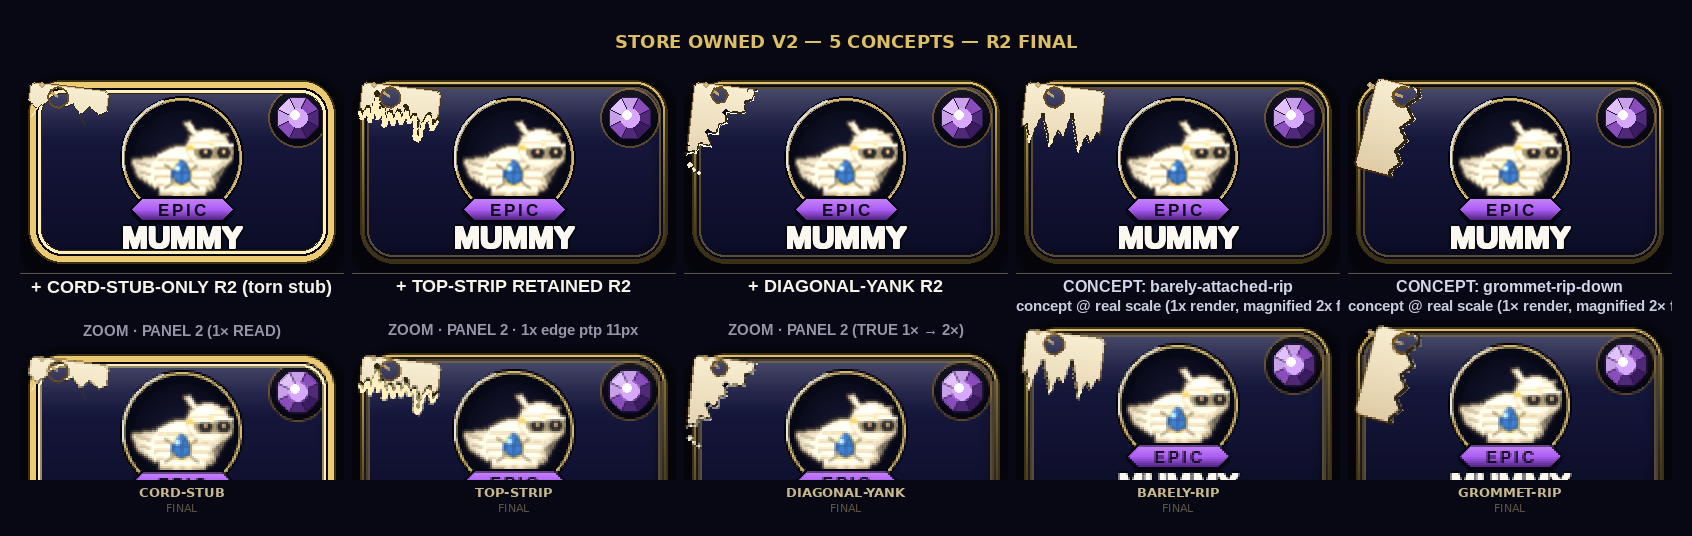
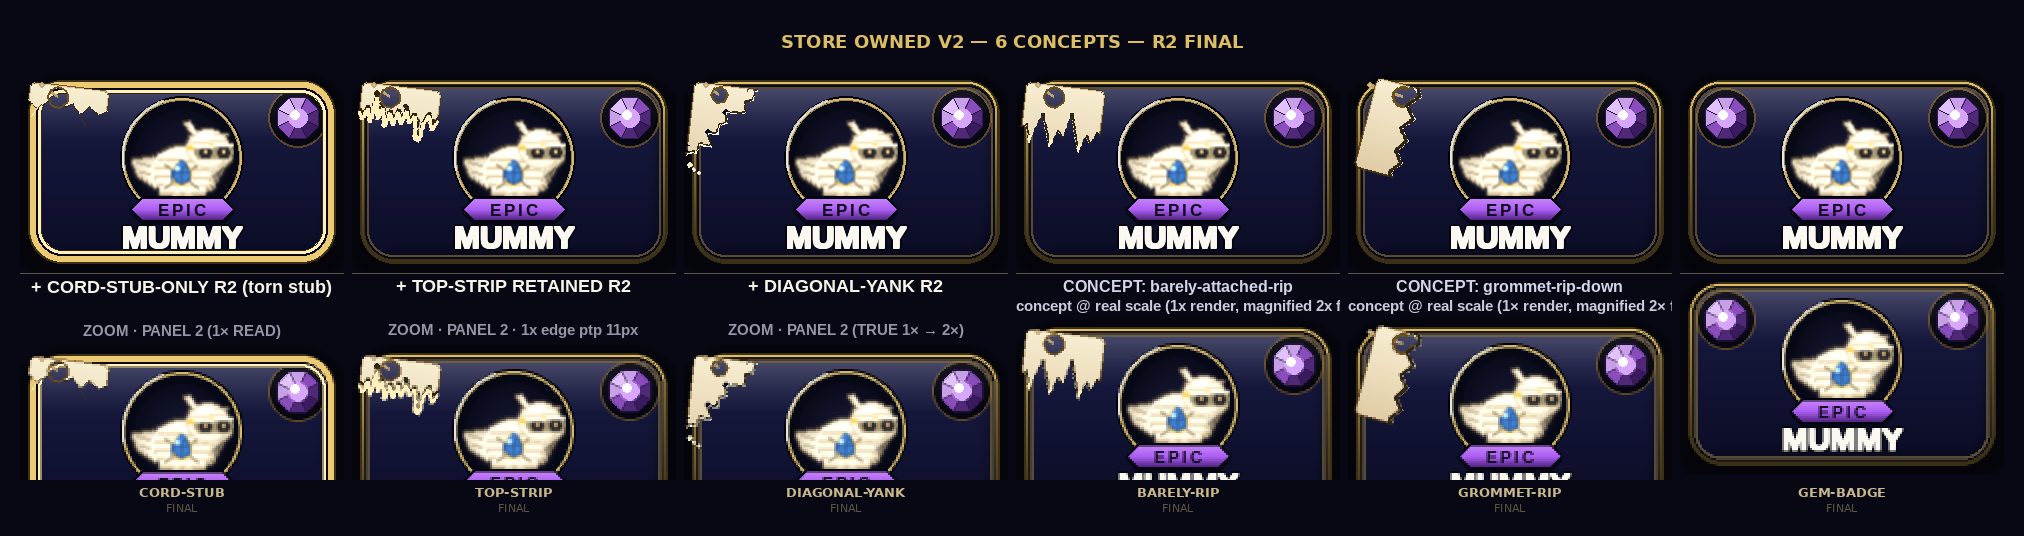
Add store_owned_v2 top-left-gem concept + update showcase to 6 panels

diff --git a/tools/_store_owned_v2_top_left_gem_r2.py b/tools/_store_owned_v2_top_left_gem_r2.py
@@ -1,0 +1,97 @@
+#!/usr/bin/env python3
+"""store_owned_v2 — top-left-gem concept.
+Owned state: no hang-tag; instead a second facet-gem badge appears at the
+top-LEFT corner, mirroring the top-right rarity crest gem.
+Two gems = owned. One gem = unowned/equipped-only.
+"""
+import os, sys
+os.environ.setdefault("SDL_VIDEODRIVER", "dummy")
+os.environ.setdefault("SDL_AUDIODRIVER", "dummy")
+sys.path.insert(0, os.path.join(os.path.dirname(__file__), ".."))
+import pygame; pygame.init()
+pygame.display.set_mode((1, 1), pygame.NOFRAME)
+
+import game.store_cards as sc
+import game.store_data as sd
+from game import store_catalog
+
+sd.load()
+SID = "skin_mummy"
+
+CW, CH = sc.CARD_W * sc.SS, sc.CARD_H * sc.SS   # 324 × 200
+CARD_RECT = pygame.Rect(sc.m(sc._INSET), sc.m(sc._INSET),
+                        CW - 2 * sc.m(sc._INSET), CH - 2 * sc.m(sc._INSET))
+
+BG    = (8, 8, 20)
+xs    = [20, 360, 700]
+PY    = 102
+SHEET_W = xs[-1] + CW + 20
+SHEET_H = PY + CH + 8 + CH + 36    # panel + gap + zoom strip + label row
+
+sheet = pygame.Surface((SHEET_W, SHEET_H))
+sheet.fill(BG)
+
+
+def make_card(equipped, owned):
+    s = pygame.Surface((CW, CH), pygame.SRCALPHA)
+    sc.draw_card(s, SID, CARD_RECT, equipped, False, owned=owned)
+    return s
+
+
+# ── Panel 0: UNOWNED (price tag) ─────────────────────────────────────────────
+p0 = make_card(False, False)
+sheet.blit(p0, (xs[0], PY))
+
+# ── Panel 1: EQUIPPED BASE (regalia frame + check tag) ───────────────────────
+p1 = make_card(True, False)
+sheet.blit(p1, (xs[1], PY))
+
+# ── Panel 2: CONCEPT — top-left gem (no hang-tag) ────────────────────────────
+p2 = pygame.Surface((CW, CH), pygame.SRCALPHA)
+
+# Draw full card body but suppress the state_chip so no hang-tag is drawn
+_orig_chip = sc.state_chip
+sc.state_chip = lambda *a, **kw: None
+sc.draw_card(p2, SID, CARD_RECT, False, False, owned=False)
+sc.state_chip = _orig_chip
+
+# Mirror the top-right gem to the top-left corner (identical call, mirrored cx)
+pal = sc.RARITY[store_catalog.rarity(SID)]
+gem_cx_right = CARD_RECT.right  - sc.m(19)
+gem_cx_left  = CARD_RECT.x      + sc.m(19)
+gem_cy       = CARD_RECT.y      + sc.m(19)
+gem_r        = sc.m(sc.GEM_R + 3)
+sc.facet_gem(p2, gem_cx_left, gem_cy, gem_r, pal["gem"], pal["deep"])
+
+sheet.blit(p2, (xs[2], PY))
+
+# ── Zoom strip: true 1× read scaled 2× ───────────────────────────────────────
+zoom = pygame.transform.scale2x(
+    pygame.transform.smoothscale(p2, (sc.CARD_W, sc.CARD_H)))
+sheet.blit(zoom, (xs[2], PY + CH + 8))
+
+# ── Save ──────────────────────────────────────────────────────────────────────
+out_dir = "docs/store_owned_v2/top_left_gem"
+os.makedirs(out_dir, exist_ok=True)
+out = os.path.join(out_dir, "round_2.png")
+pygame.image.save(sheet, out)
+print(f"saved {out} ({SHEET_W}x{SHEET_H})")
+
+# ── 1× legibility check ───────────────────────────────────────────────────────
+from PIL import Image
+im = Image.open(out).convert("RGB")
+# Sample the top-left gem area on the zoom strip (xs[2], PY+CH+8 is zoom origin)
+zx, zy = xs[2], PY + CH + 8
+# The gem at top-left in the zoom strip (scale2x of 162×100 → 324×200)
+# gem_cx_left at SS=2 → 1× coord = gem_cx_left//2; then ×2 in zoom = gem_cx_left
+# Gem center in zoom coords:
+zoom_gem_cx = zx + gem_cx_left         # already device px, scale2x ×2 = same
+zoom_gem_cy = zy + gem_cy
+# Zoom is smoothscale(SS→1x) → scale2x, so zoom pixel = p2 pixel at half res then ×2
+# Simpler: sample at device coords on p2 region (xs[2], PY)
+p2_gem_px = im.getpixel((xs[2] + gem_cx_left, PY + gem_cy))
+p2_right_px = im.getpixel((xs[2] + gem_cx_right, PY + gem_cy))
+print(f"top-left gem pixel  @({gem_cx_left},{gem_cy}): {p2_gem_px}")
+print(f"top-right gem pixel @({gem_cx_right},{gem_cy}): {p2_right_px}")
+bg_px = im.getpixel((xs[2] + 5, PY + 5))
+print(f"card body corner pixel: {bg_px}  (should be indigo/dark, not BG)")

diff --git a/tools/_store_owned_v2_showcase.py b/tools/_store_owned_v2_showcase.py
@@ -1,5 +1,5 @@
 #!/usr/bin/env python3
-"""store_owned_v2 showcase — 5 R2 concept panels + zoom strips"""
+"""store_owned_v2 showcase — 6 R2 concept panels + zoom strips"""
 from PIL import Image, ImageDraw, ImageFont
 import os
 
@@ -9,6 +9,7 @@ CONCEPTS = [
     ("diagonal_yank",       "DIAGONAL-YANK", 315),
     ("barely_attached_rip", "BARELY-RIP",    309),
     ("grommet_rip_down",    "GROMMET-RIP",   309),
+    ("top_left_gem",        "GEM-BADGE",     316),
 ]
 
 BASE = "docs/store_owned_v2"
@@ -41,7 +42,7 @@ DIM    = (90, 85, 70)
 
 draw.text(
     (canvas_w // 2, MARGIN + HEADER_H // 2),
-    "STORE OWNED V2 — 5 CONCEPTS — R2 FINAL",
+    "STORE OWNED V2 — 6 CONCEPTS — R2 FINAL",
     fill=GOLD, font=font_hdr, anchor="mm",
 )
 
